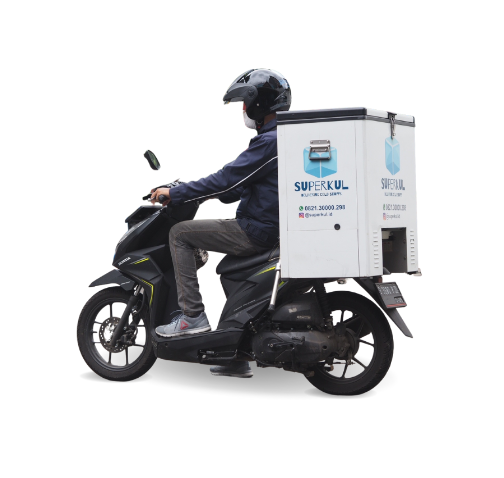
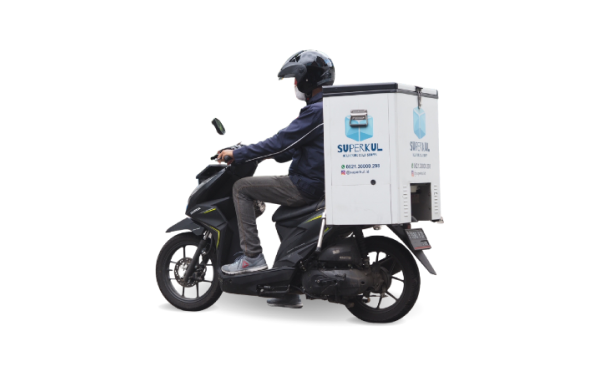
refact: vehicle

Changed region(s): [[0.1488, 0.1196, 0.8333, 0.8967]]

diff --git a/src/Component/UI/home/Vehicles.jsx b/src/Component/UI/home/Vehicles.jsx
@@ -388,23 +388,23 @@ export const Vehicles = () => {
                 </span>
               </div>
             }
-            <div className="smooth-scrollbar vehicle-content">
+            <div className="smooth-scrollbar vehicle-content" >
               {tabSelected === 1 && (
-                <div>
-                  <Row >
-                    <Col sm={12} md={6}>
-                      <div className="ps-3 ps-md-5 pt-4 pb-3 ">
+                <div className="h-100">
+                  <Row className="h-100">
+                    <Col sm={12} md={7}>
+                      <div className="ps-3 ps-md-5 pt-4 pb-3">
                         <h4> <strong>{listSelected.name.toLocaleUpperCase()}</strong> </h4>
                       </div>
-                      <div className="d-none d-md-block" style={{ margin: "8vh 0vh" }}>
+                      <div className="d-none d-md-block pt-5" >
                         <img src={listSelected.imgUrl} alt="feature-img" />
                       </div>
-                      <div className="d-block d-md-none">
+                      <div className="d-block d-md-none text-center">
                         <img src={listSelected.imgUrl} alt="feature-img" width={200} />
                       </div>
                     </Col>
-                    <Col sm={12} md={6}>
-                      <div style={{ margin: "0vh 0vh" }} className="ps-3 ps-md-5 pt-5 pb-3">
+                    <Col sm={12} md={5} className="pt-md-5">
+                      <div style={{ margin: "0vh 0vh" }} className="ps-3 ps-md-5 pb-3 pt-1 pt-md-5 mt-4">
                         <h5><strong>{t("vehicleInformation")}</strong></h5>
                         <div className="pt-3">
                           <h6>
@@ -424,12 +424,14 @@ export const Vehicles = () => {
                           </h6>
                           <p>{listSelected.vehicleInfo.temperature}</p>
                         </div>
-                        <div className="pt-3">
-                          <h6>
-                            <strong>{t("deliveryAreas")}</strong>
-                          </h6>
-                          <p>{listSelected.vehicleInfo.area}</p>
-                        </div>
+                        {listSelected.name !== "Bike" &&
+                          <div className="pt-3">
+                            <h6>
+                              <strong>{t("deliveryAreas")}</strong>
+                            </h6>
+                            <p>{listSelected.vehicleInfo.area}</p>
+                          </div>
+                        }
                       </div>
                     </Col>
                   </Row>

diff --git a/src/styles/Vehicles/vehicles.scss b/src/styles/Vehicles/vehicles.scss
@@ -110,7 +110,7 @@
 
     .vehicle-content {
       max-width: 100%;
-      max-height: 75vh;
+      height: 100%;
       overflow-x: hidden;
       overflow-y: scroll;
 
